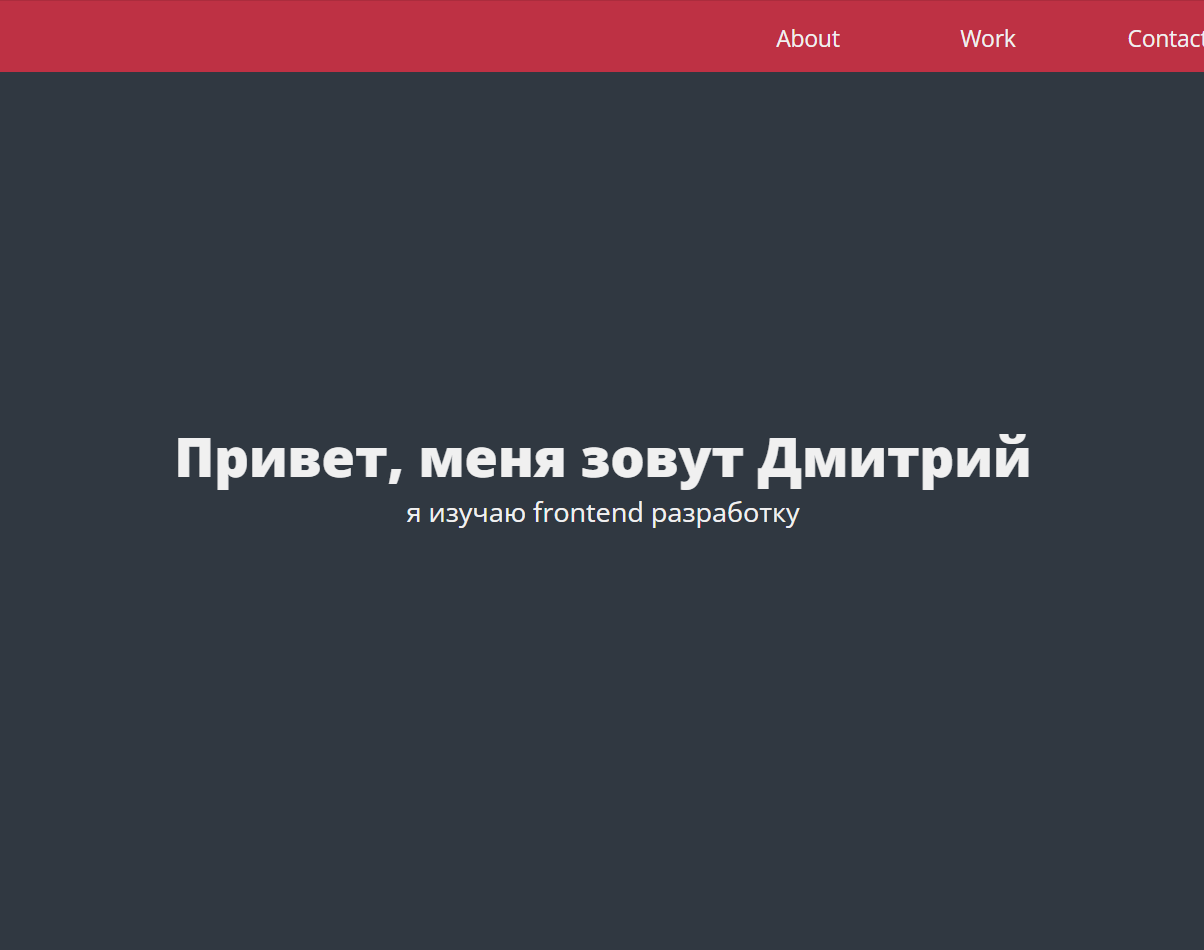
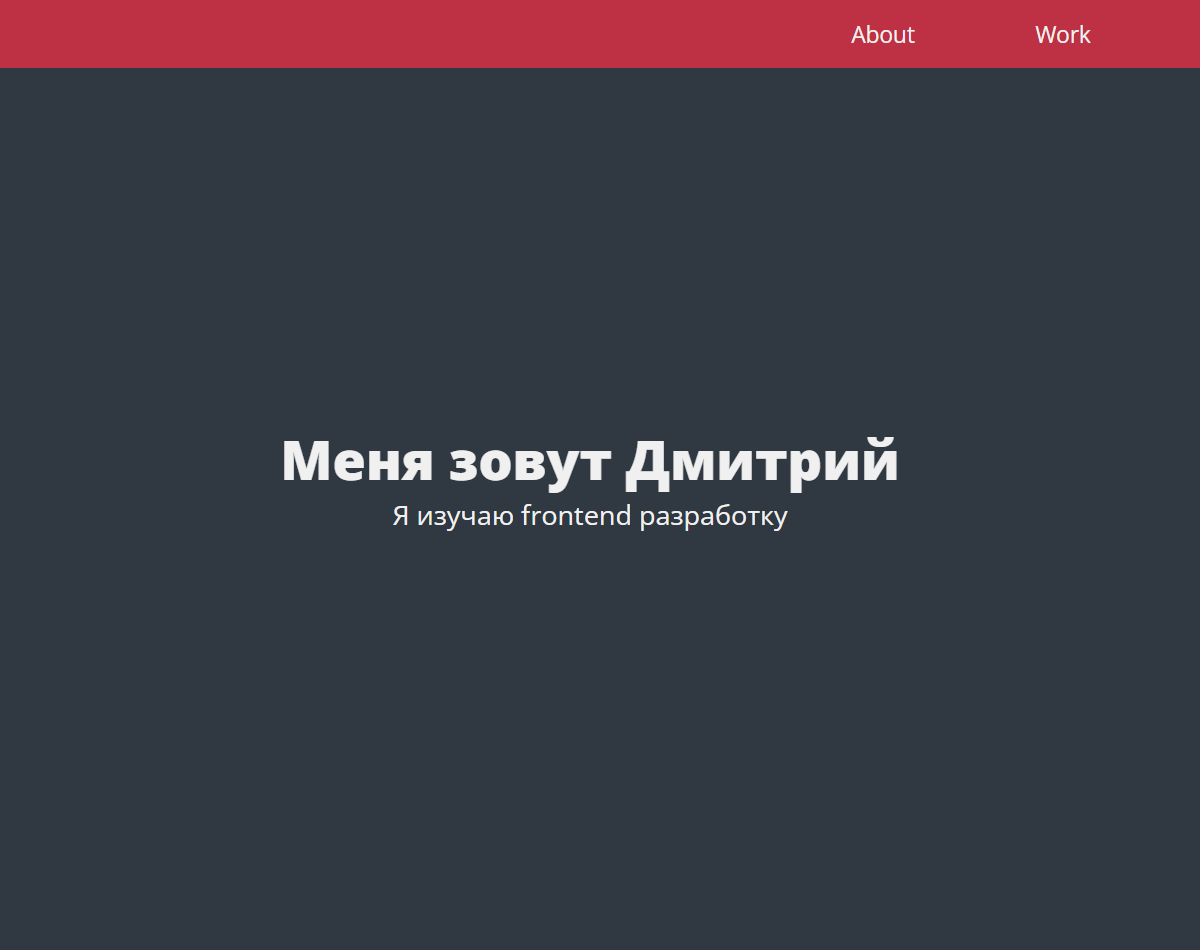
Работа с media

Changed region(s): [[0.0, 0.0, 1.0, 1.0], [0.1229, 0.4579, 0.8605, 0.58]]

diff --git a/index.html b/index.html
@@ -22,8 +22,8 @@
     </header>
     <main id="main">
       <section id="welcome-section">
-        <h1>Привет, меня зовут Дмитрий</h1>
-        <p>я изучаю frontend разработку</p>
+        <h1>Меня зовут Дмитрий</h1>
+        <p>Я изучаю frontend разработку</p>
       </section>
       <section id="projects">
         <h2>Мои проекты...</h2>
@@ -104,8 +104,15 @@
         <h2>Давайте работать в месте...</h2>
         <p>Мои контакты для связи.</p>
         <div class="contact-links">
-          <a>email</a>
-          <a>telegram</a>
+          <a id="contact-btn" href="mailto:oddff@mail.ru"
+            ><i class="fas fa-at"></i>email</a
+          >
+          <a href="https://t.me/Lerts_D" target="_blank"
+            ><i class="fab fa-telegram"></i>telegram</a
+          >
+          <a href="https://github.com/Lerts007" target="_blank"
+            ><i class="fab fa-github"></i>GitHub</a
+          >
         </div>
       </section>
     </main>

diff --git a/styles.css b/styles.css
@@ -11,6 +11,12 @@
   margin: 0;
   padding: 0;
 }
+
+a {
+  cursor: pointer;
+  text-decoration: none;
+  color: var(--text-color);
+}
 html {
   font-family: "Open Sans", sans-serif;
   font-size: 10px;
@@ -56,9 +62,6 @@ body {
 .nav-link a {
   display: block;
   height: 100%;
-  cursor: pointer;
-  text-decoration: none;
-  color: var(--text-color);
   text-align: center;
 
   padding: 1em;
@@ -162,4 +165,27 @@ body {
 }
 #contact p {
   font-size: 3rem;
+}
+
+.contact-links {
+  margin-top: 20px;
+  font-size: 4rem;
+}
+
+.contact-links a {
+  display: inline-block;
+  margin-right: 20px;
+  transition: transform 0.4s;
+}
+
+.contact-links a:last-child {
+  margin-right: 0;
+}
+
+.contact-links a:hover {
+  transform: translateY(10px);
+}
+
+.contact-links i {
+  margin-right: 10px;
 }
